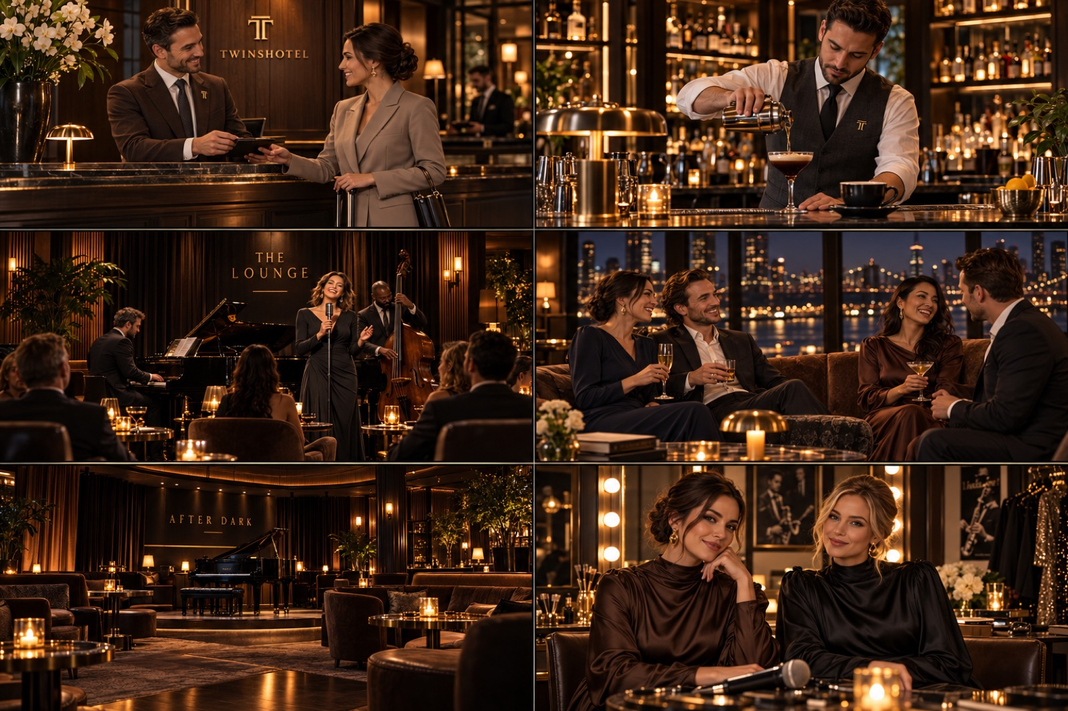
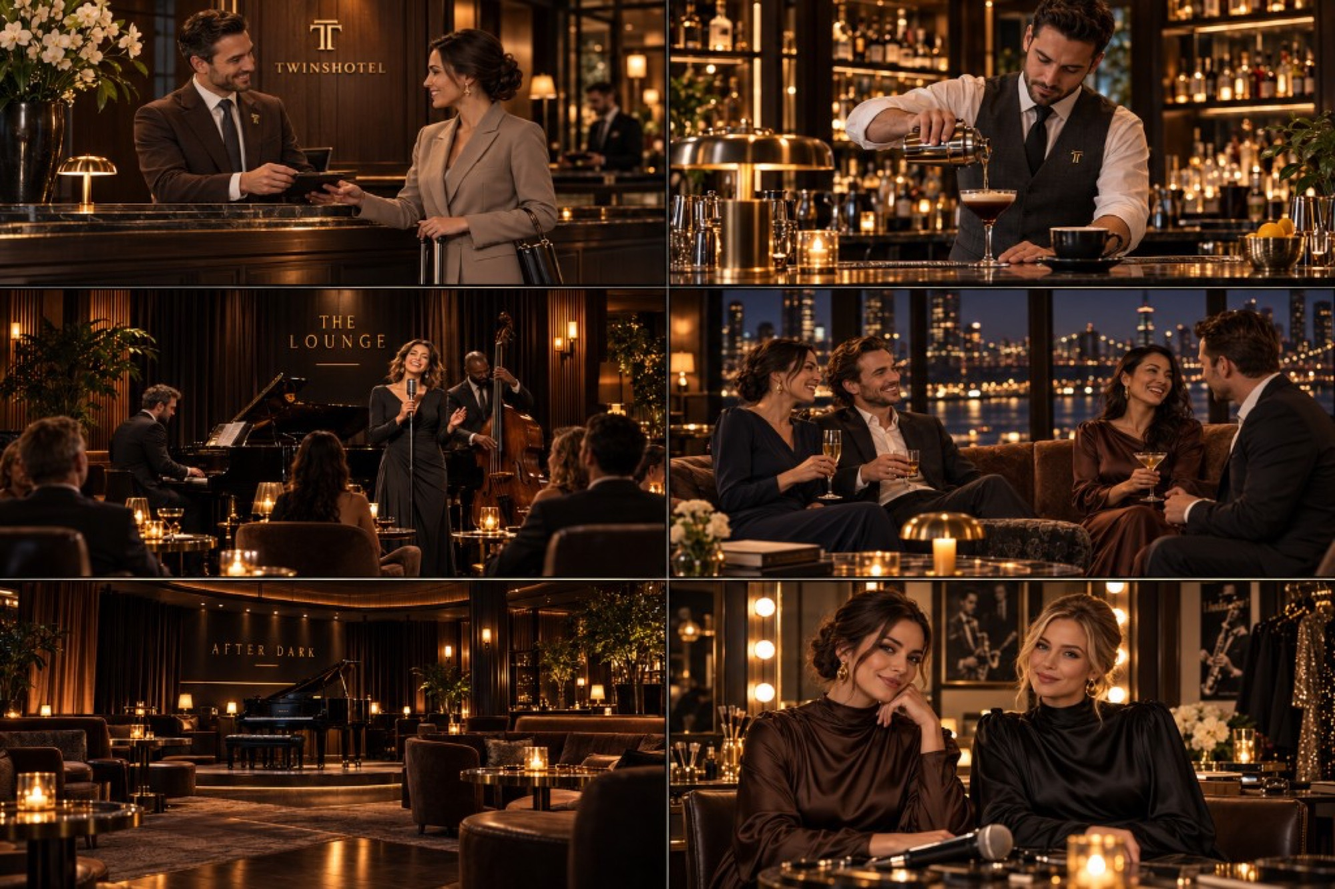
Use the three Twinshotel moodboard photos on the wish card.

diff --git a/lib/v2/personal/personal-wishes-repo.ts b/lib/v2/personal/personal-wishes-repo.ts
@@ -97,6 +97,7 @@ const TWINSHOTEL_DESCRIPTION =
 const TWINSHOTEL_IMAGES = [
   { url: "/wishes/twinshotel-1.jpg", name: "twinshotel-1.jpg" },
   { url: "/wishes/twinshotel-2.jpg", name: "twinshotel-2.jpg" },
+  { url: "/wishes/twinshotel-3.jpg", name: "twinshotel-3.jpg" },
 ] as const;
 
 /** Идемпотентно добавляет Twinshotel в глобальные желания (вместе с миграцией 096). */
@@ -130,7 +131,7 @@ async function ensureTwinshotelWish(userId: string): Promise<void> {
       categories: ["material", "create", "life", "intimacy"],
       scale: "lifestyle",
       is_near: false,
-      grid_col: 1,
+      grid_col: 2,
       grid_row: 7,
       sort_order: nextSort,
       created_at: now,
@@ -152,20 +153,27 @@ async function ensureTwinshotelWish(userId: string): Promise<void> {
   const { data: imgs } = await sb.from("v2_personal_wish_images").select("url").eq("wish_id", wishId);
   const have = new Set((imgs ?? []).map((r) => String((r as { url: string }).url)));
   const missing = TWINSHOTEL_IMAGES.filter((i) => !have.has(i.url));
-  if (!missing.length) return;
+  if (missing.length) {
+    const { error: imgErr } = await sb.from("v2_personal_wish_images").insert(
+      missing.map((f, i) => ({
+        id: newV2Id(),
+        wish_id: wishId,
+        url: f.url,
+        name: f.name,
+        media_type: "image" as const,
+        sort_order: have.size + i,
+        created_at: nowIso(),
+      }))
+    );
+    if (imgErr) console.error("ensureTwinshotelWish images:", imgErr);
+  }
 
-  const { error: imgErr } = await sb.from("v2_personal_wish_images").insert(
-    missing.map((f, i) => ({
-      id: newV2Id(),
-      wish_id: wishId,
-      url: f.url,
-      name: f.name,
-      media_type: "image" as const,
-      sort_order: have.size + i,
-      created_at: nowIso(),
-    }))
-  );
-  if (imgErr) console.error("ensureTwinshotelWish images:", imgErr);
+  const size = gridSizeForWish(TWINSHOTEL_IMAGES.length, true);
+  await sb
+    .from("v2_personal_wishes")
+    .update({ grid_col: size.col, grid_row: size.row, updated_at: nowIso() })
+    .eq("id", wishId)
+    .eq("user_id", userId);
 }
 
 export async function loadPersonalWishes(ctx: V2SessionContext): Promise<PersonalWish[]> {
